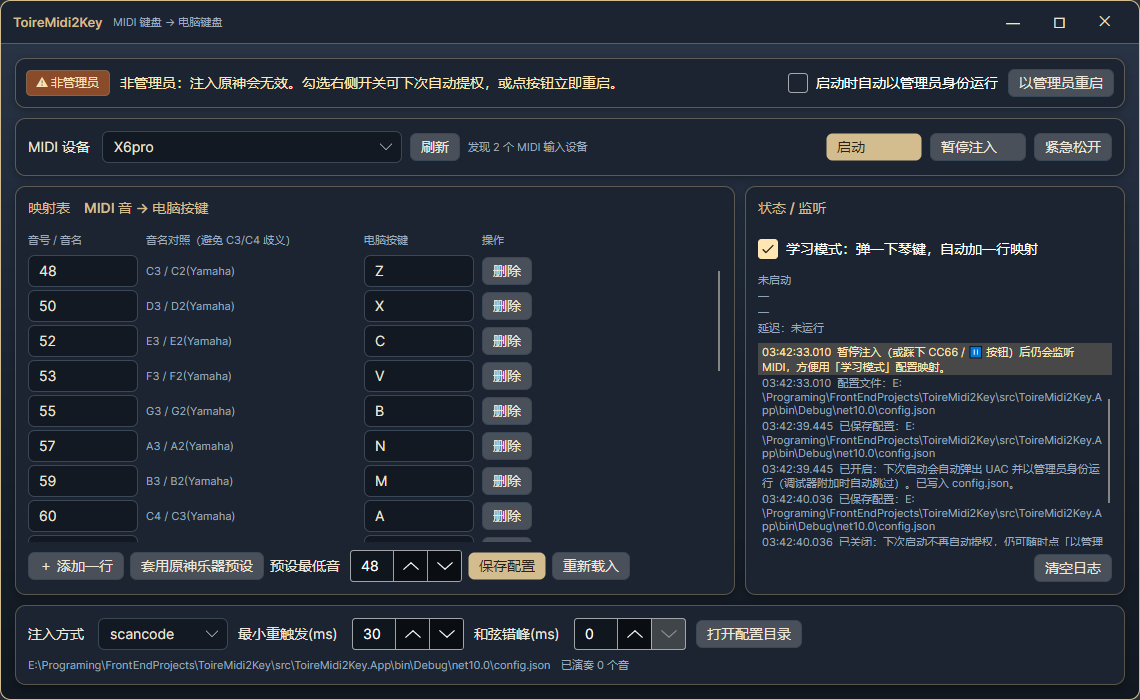
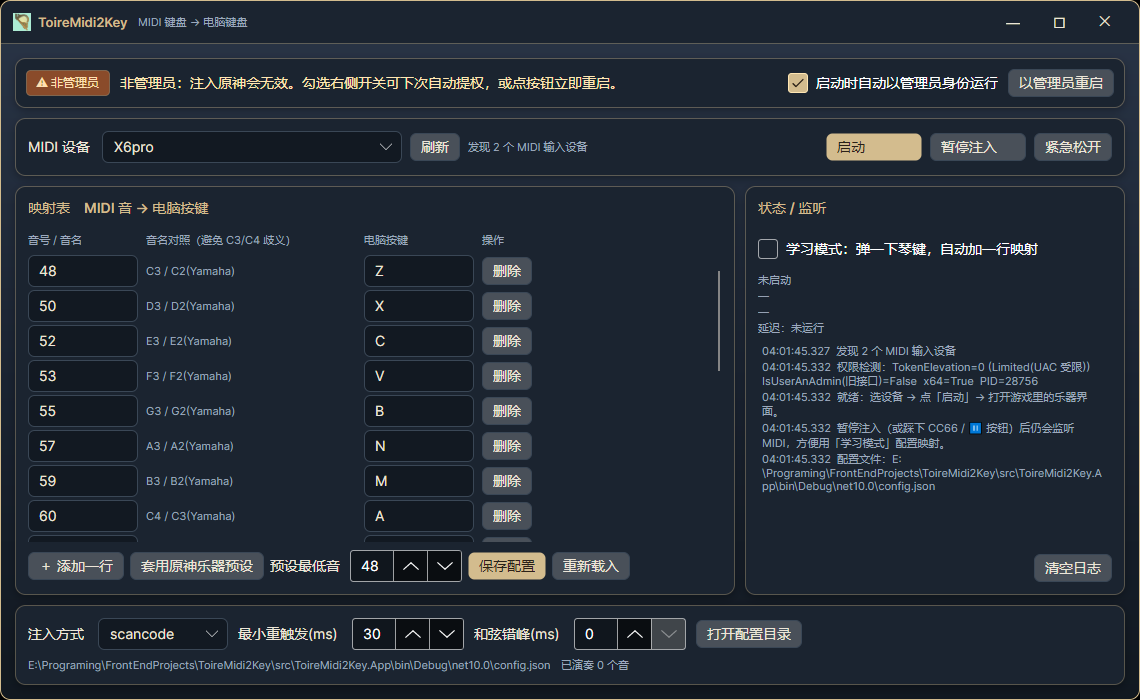
图标优化：16/24/32 改用抠图平底版（插画在 16px 会糊），48+ 保留原插画；自绘标题栏加 18px 应用图标

diff --git a/README.md b/README.md
@@ -192,6 +192,7 @@ src/
 - **Avalonia 12 窗口装饰**：`ExtendClientAreaChromeHints` 已删除，改用 `Window.WindowDecorations`（None/BorderOnly/Full）+ `WindowDecorationProperties.ElementRole`；描边必须放在**独立不裁剪**的层，否则 Border 的内容裁剪会切掉圆角圆弧。
 - **`NumericUpDown`** 默认只在点上下箭头时更新 `Value`；手输后按 Enter / 点到别处都不提交，所以在窗口层统一兜底（`KeyDown`/`PointerPressed` 是冒泡事件，`AddHandler` 必须用 `Bubble` + `handledEventsToo`）。
 - **CheckBox 模板部件名**：只改 `Border#NormalRectangle`（方框）和 `Path#CheckGlyph`（勾）；用不限名字的 `Border` 选择器会连 `PART_Border`（横跨整行、含文字区）一起上色。
+- **应用图标**：`Assets/app.ico`（窗口 + exe）与 `Assets/app-icon.png`（自绘标题栏里显示 18px）都从 `docs/icon.png` 生成；16/24/32 用「抠图 + 平底」的小尺寸版（否则插画在 16px 会糊成一团），48 及以上保留原插画。
 
 ## 版本
 
